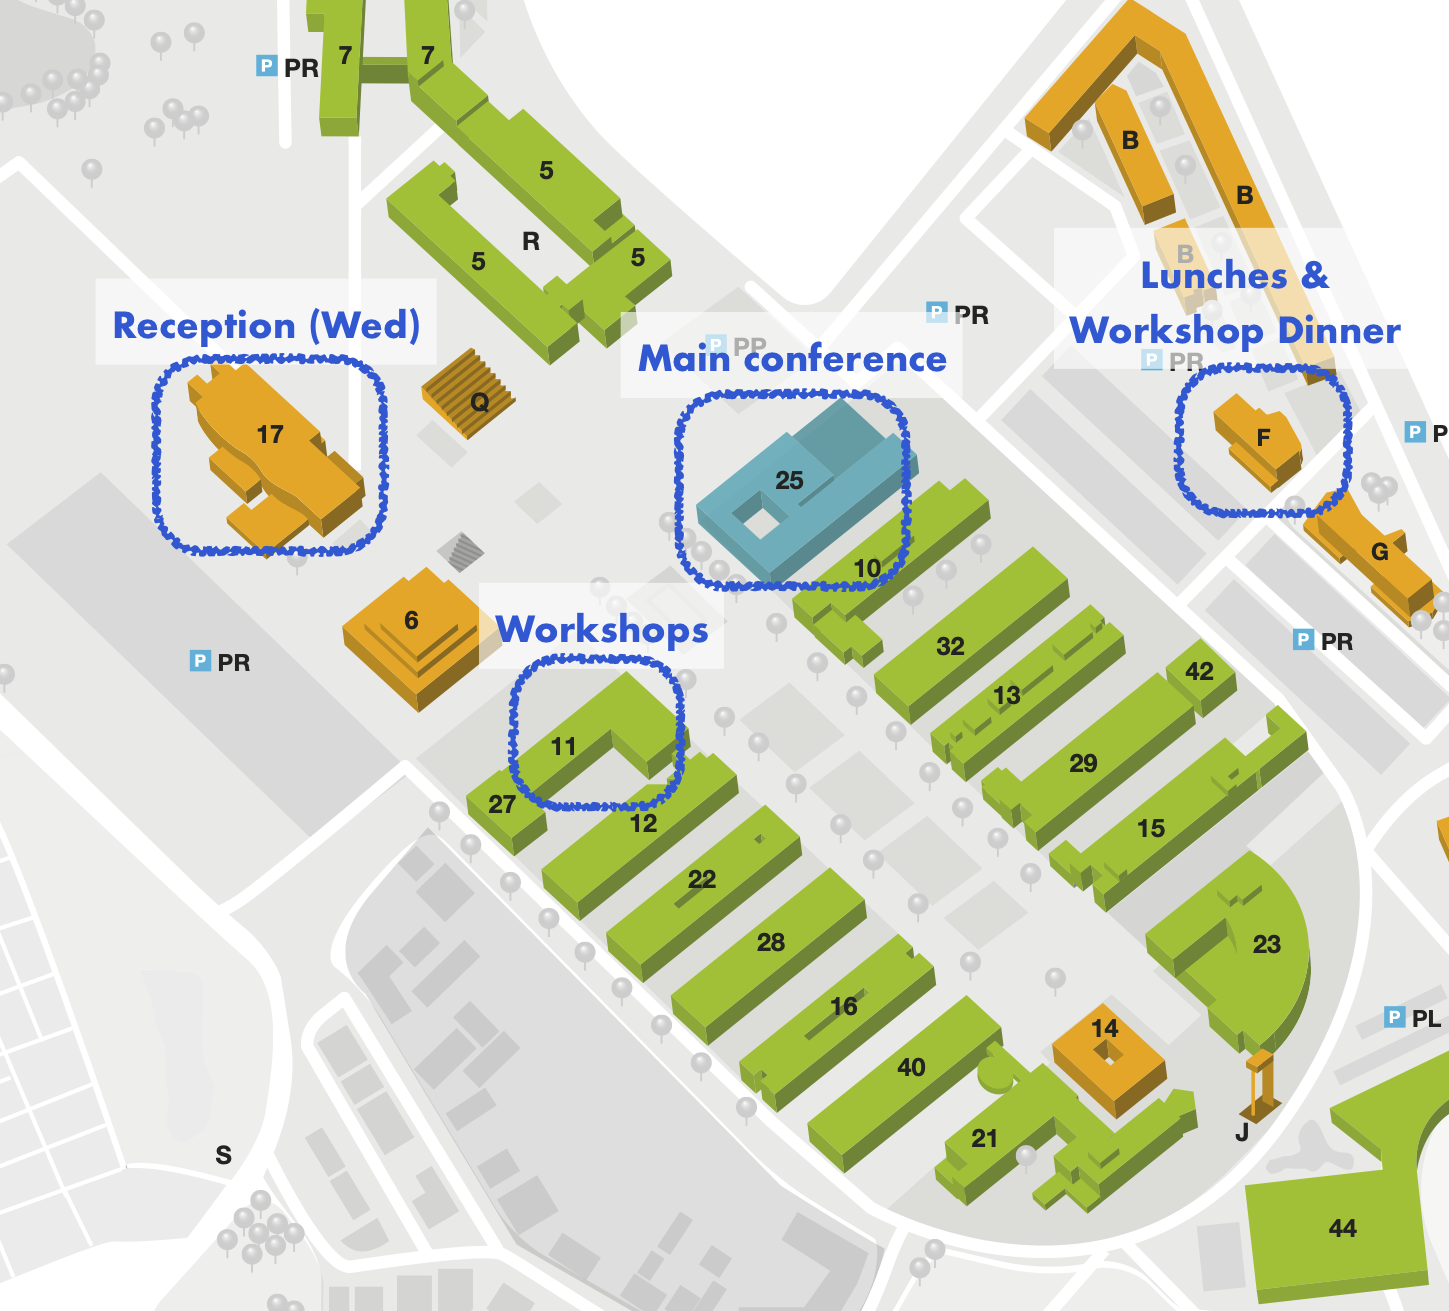
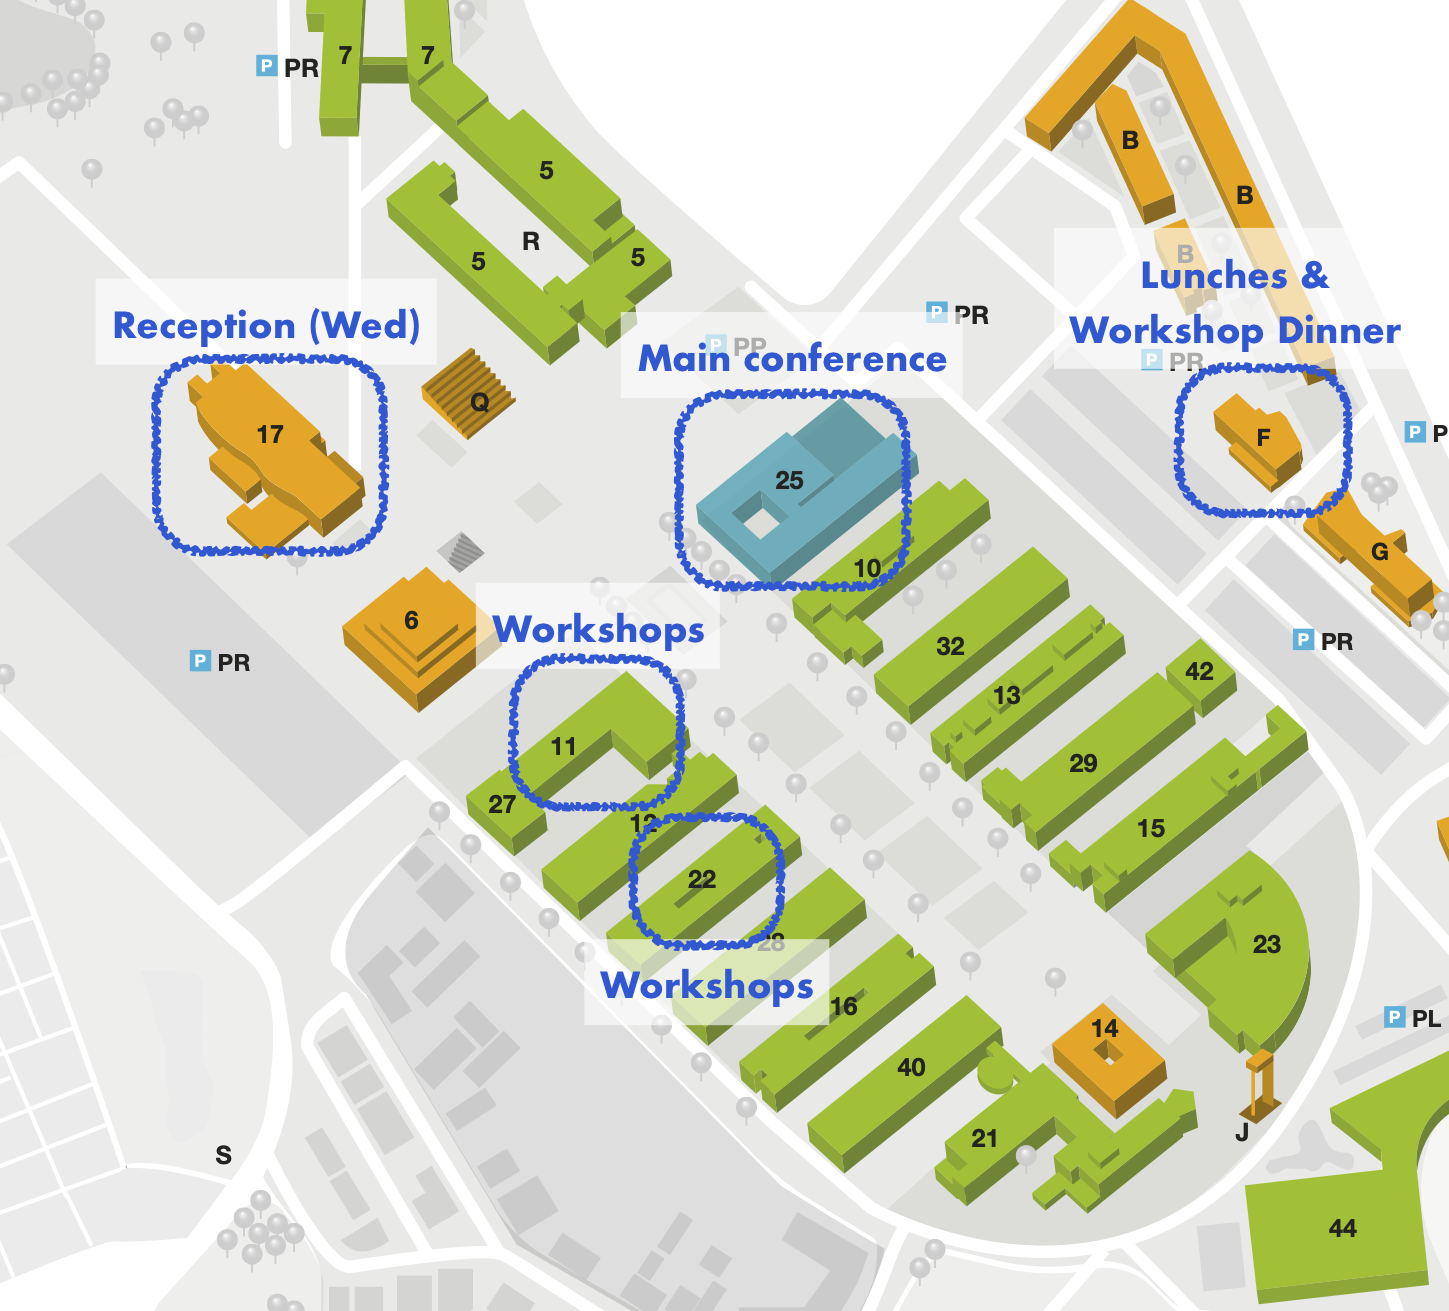
image update with the map

Changed region(s): [[0.4037, 0.6102, 0.5901, 0.7933], [0.3416, 0.4577, 0.4969, 0.4882]]

diff --git a/_pages/venue.md b/_pages/venue.md
@@ -47,7 +47,7 @@ With exception of the social event, all the activities of SEFM and the co-locate
  </center>
 
 
-- Workshops - Check-In: Opens at 8:45 in front of Sousa Pinto Room, Mathematics Department (Building 11).
+- Workshops - Check-In: Opens at 8:45 in front of Sousa Pinto Room, Mathematics Department (Building 11); to be held here (DataMod, ReacTS, and Ibex) and in Auditório José Graça, Civil Engineering Department (building 22, CIFMA).
 
 - Main Conference - Check-In: Opens at 8:45 in front of the "Actos Académicos" Room, Rectory Building (Building 25).
 
